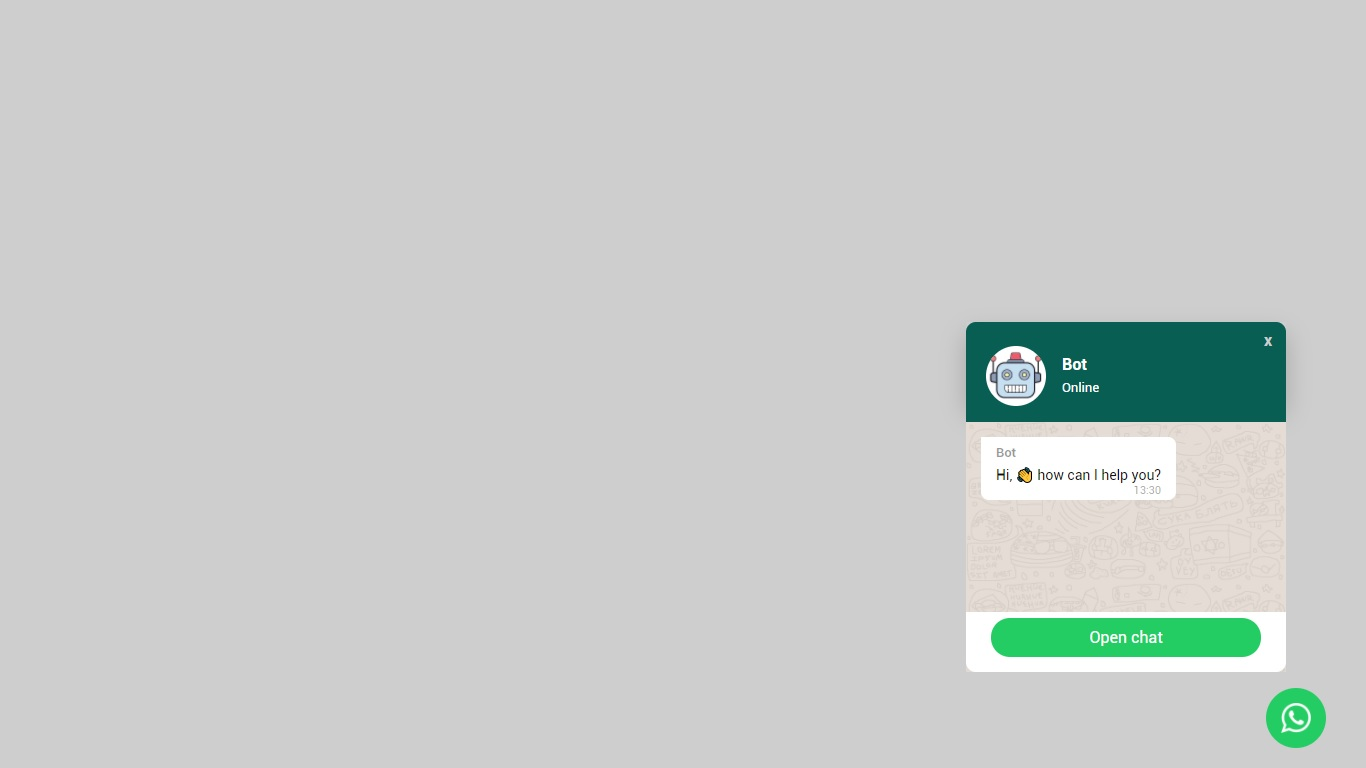
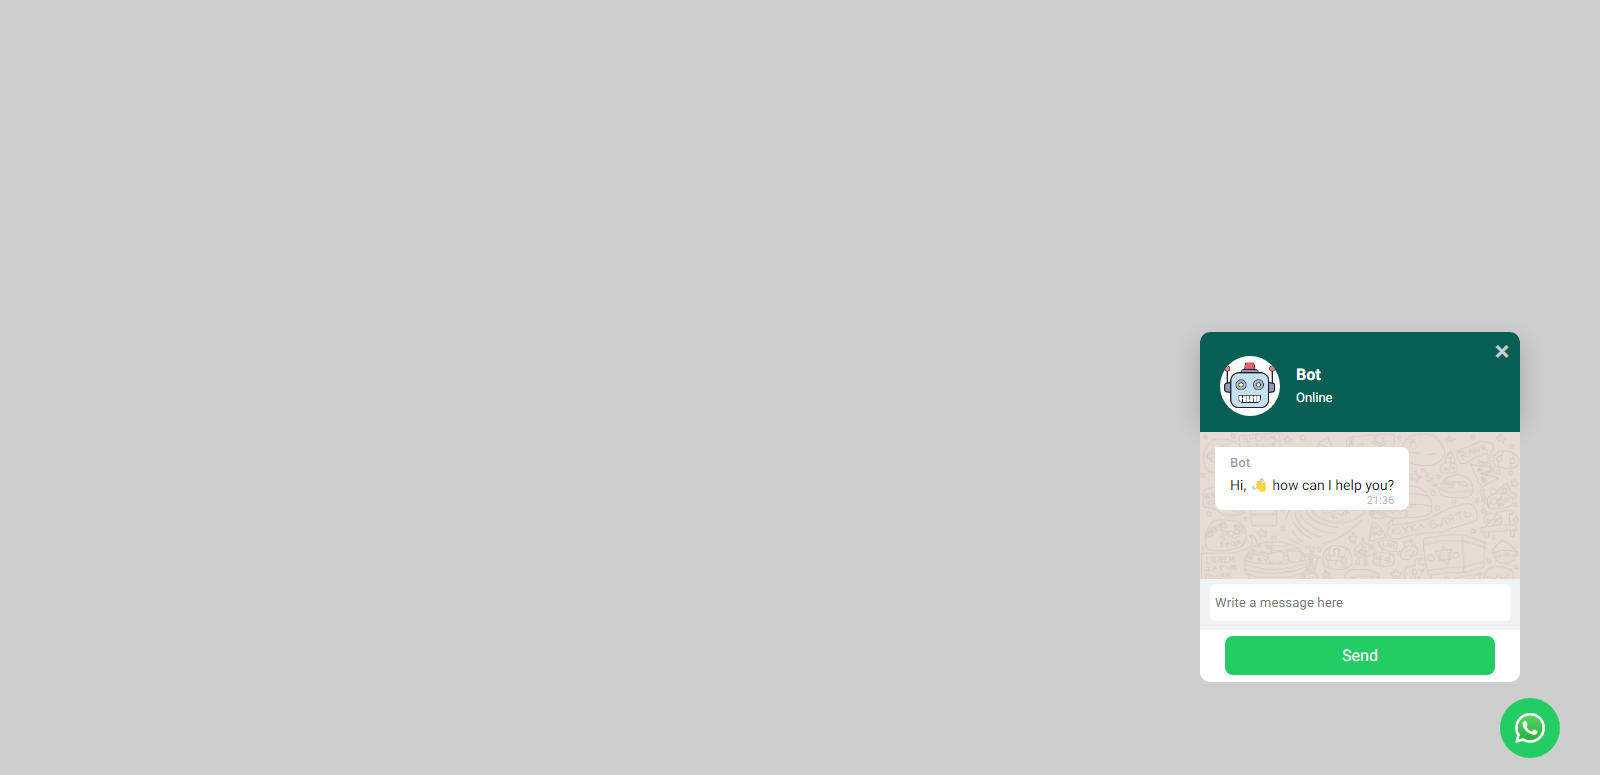
Added input for message

Changed region(s): [[0.7072, 0.4062, 0.9531, 0.6562], [0.7072, 0.75, 0.9839, 1.0]]

diff --git a/src/js/whatsapp-widget.js b/src/js/whatsapp-widget.js
@@ -8,8 +8,10 @@ let paramsDefault = {
         color: '#FFFFFF'
     },
     optionsChat: {
-        buttonTarget: `https://api.whatsapp.com/send?phone=+55479999999999&text=${encodeURIComponent("Hello everyone")}`,
-        text: 'Open chat'
+        buttonTarget: `https://api.whatsapp.com/send?`,
+        message:'Hello everyone',
+        phone:'+55479999999999',
+        text: 'Send'
     },
     optionsBot: {
         name: 'Bot',
@@ -48,7 +50,7 @@ function createElements(params) {
 
     const strChat = `<div class="whatsapp-widget-chat" id="whatsapp-widget-chat">
                         <div class="whatsapp-widget-chat-header" id="whatsapp-widget-chat-header" style="background: ${paramsDefault.optionsPopup.background}; color: ${paramsDefault.optionsPopup.color}">
-                            <div class="whatsapp-widget-chat-header close" id="close">x</div>
+                            <div class="whatsapp-widget-chat-header close" id="close">✖</div>
                             <div class="whatsapp-widget-chat-header bot">
                                 <div class="bot-img" id="bot-img">
                                     <img class="whatsapp-widget-chat-header" src="${paramsDefault.optionsBot.image}" />
@@ -67,6 +69,9 @@ function createElements(params) {
                                 <div class="whatsapp-widget-chat-chat date" id="dateBot"></div>
                             </div>
                             <div class="whatsapp-widget-chat-footer" id="whatsapp-widget-chat-footer">
+                                <div id="whatsapp-widget-chat-input-container">
+                                    <textarea rows="5" placeholder="Write a message here" id="whatsapp-widget-chat-input"></textarea>                        
+                                </div>
                                 <a href="#" id="whatsapp-widget-open-modal" class="whatsapp-widget-open-modal">   
                                     ${paramsDefault.optionsChat.text}       
                                 </a>
@@ -144,8 +149,12 @@ function setEvents() {
 function modalWhatsapp() {
     const x = screen.width  / 2 - 800 / 2
     const y = screen.height / 2 - 550 / 2
-
-    window.open(paramsDefault.optionsChat.buttonTarget, ``,`height=550,width=800,left=${x},top=${y}`)
+    const messageInput=document.getElementById("whatsapp-widget-chat-input");
+    let message = messageInput.value;
+    if (message.length === 0)
+        message = paramsDefault.optionsChat.message
+    let url = `${paramsDefault.optionsChat.buttonTarget}phone=${paramsDefault.optionsChat.phone}&text=${encodeURIComponent(message)}`
+    window.open(url, ``,`height=550,width=800,left=${x},top=${y}`)
 }
 
 function timeNow() {

diff --git a/src/css/whatsapp-widget.css b/src/css/whatsapp-widget.css
@@ -45,11 +45,16 @@
     margin-bottom: 96px;
     width: 320px;
     height: 80px;
-    right: 40px;
+    right: 0px;
     z-index: 999999;
     bottom: 250px;
     box-shadow: rgba(0, 0, 0, 0.2) 0px 12px 24px 0px;
     transition: opacity 0.3s ease 0s, margin 0.3s ease 0s, visibility 0.3s ease 0s;
+}
+@media (min-width: 768px) {
+    #whatsapp-widget-chat {
+        right: 40px;
+    }
 }
 
 #whatsapp-widget-chat-header {
@@ -190,7 +195,7 @@
 #whatsapp-widget-chat-footer {
     position: absolute;
     bottom: 0;
-    height: 60px;
+    height: 103px;
     width: 100%;
     background: #fff;
     border-bottom-left-radius: 10px;
@@ -209,6 +214,23 @@
     vertical-align: middle;
     margin: 6px auto;
     width: 250px;
-    border-radius: 25px;
+    border-radius: 8px;
+}
+#whatsapp-widget-chat-input:focus {
+    outline: none;
+}
+
+#whatsapp-widget-chat-input {
+    width: 97%;
+    border: none;
+    padding: 10px 5px;
+    height: 17px;
+    border-radius: 6px;
+    resize: none;
+}
+
+#whatsapp-widget-chat-input-container{
+    padding: 5px 10px;
+    background: #f0f2f5;
 }
 /** BEGIN POPUP FOOTER WIDGET **/

diff --git a/index.html b/index.html
@@ -5,6 +5,7 @@
         <meta charset="utf-8">
         <meta name="viewport" content="width=device-width, initial-scale=1, shrink-to-fit=no">
         <link rel="stylesheet" href="src/css/whatsapp-widget.css">
+        <meta name="viewport" content="width=device-width, initial-scale=1.0">
     </head>
     <body style="background-color: #cecece;">
         <script src="src/js/whatsapp-widget.js"></script>

diff --git a/README.md b/README.md
@@ -33,7 +33,9 @@ const config = {
         color: '#FFFFFF'
     },
     optionsChat: {
-        buttonTarget: `https://api.whatsapp.com/send?phone=+55479999999999&text=${encodeURIComponent("Hello everyone")}`,
+        buttonTarget: `https://api.whatsapp.com/send?`,
+        message:'Hello everyone',
+        phone:'+55479999999999',
         text: 'Open chat'
     },
     optionsBot: {
